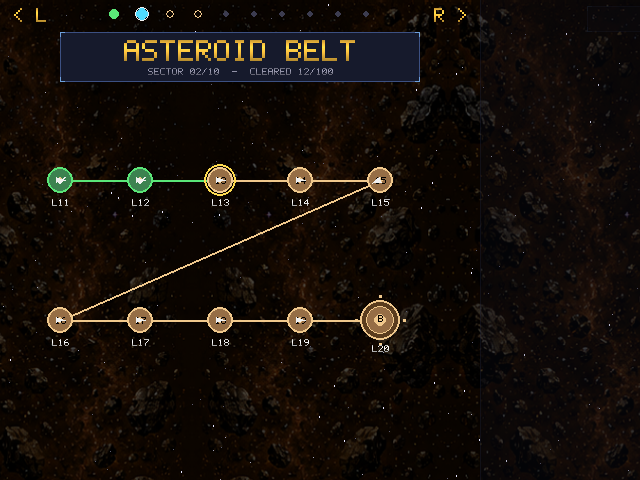
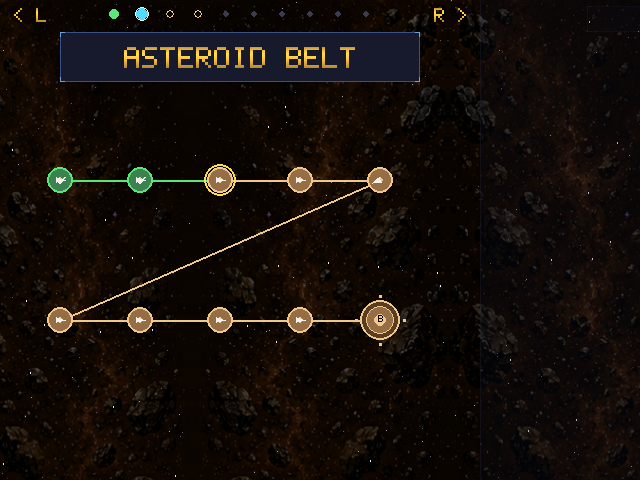
v0.9.358: map cleanup — sector.level names, no subtitle, bare discs, smarter stolen-time chart
- LEVEL panel identifier is now "sector.level" (e.g. 1.1, 1.10, 2.1)
  computed from the level key, replacing "L001 LAUNCH BAY".
- Removed the sector subtitle (SECTOR n/10 - CLEARED x/100) and centered
  the sector-name banner in its panel (y 50->57).
- Removed the level numbers on each disc (inside number + "L{n}" caption);
  regular levels are bare, boss keeps its "B", done keeps the checkmark.
- Stolen-time chart now hides until the player has improved at least once
  (>= 2 improvement marks) — no more flat same-height-bar charts.

Changed region(s): [[0.1875, 0.0625, 0.5625, 0.1562]]

diff --git a/pewpew.py b/pewpew.py
@@ -138,7 +138,7 @@ def _web_is_touch():
 # features, major for big-rewrites. Skipping the bump means the next user
 # sees the same number and can't tell if they're on the latest build.
 # ──────────────────────────────────────────────────────────────────────────
-VERSION = "0.9.357"
+VERSION = "0.9.358"
 
 # ──────────────────────────────────────────────────────────────────────────
 # HUD layout suppression
@@ -11909,7 +11909,11 @@ def _side_strip_vars(app, shop_screen=None, map_screen=None):
             fails = int(stats.get("fails", 0))
             mc = float(stats.get("max_clear", 0.0))
             has_boss = bool(getattr(level, "has_boss", False))
-            out["detail_level"] = f"{cur} {getattr(level, 'name', '') or ''}"[:18]
+            try:
+                _ln = int(str(cur)[1:])
+                out["detail_level"] = f"{(_ln - 1) // 10 + 1}.{(_ln - 1) % 10 + 1}"
+            except Exception:
+                out["detail_level"] = str(cur)
             out["detail_boss"] = "yes" if has_boss else "no"
             out["detail_boss_color"] = [255, 90, 90] if has_boss else [220, 230, 240]
             out["detail_diff"] = f"x{getattr(level, 'difficulty', 1.0):.2f}"
@@ -12943,7 +12947,7 @@ LAYOUT_ELEMENTS = {
          "visible_when": "has_next",
          "_label": "next-sector hint (visible when more sectors unlocked); R1 or R2"},
         {"id": "sector_title", "type": "text",
-         "x": 240, "y": 50, "anchor": "c",
+         "x": 240, "y": 57, "anchor": "c",
          "text": "{sector_name}", "font": 3,
          "color": [255, 196, 64], "alpha": 255,
          "_label": "current sector name banner"},
@@ -19519,7 +19523,7 @@ class MapScreen:
         # ---- Sector header banner ----
         # Panel chrome stays in code; the text inside is element-driven.
         _panel(screen, 60, 32, HUD_X - 120, 50)
-        for eid in ("sector_title", "sector_subtitle"):
+        for eid in ("sector_title",):
             el = get_element("map", eid, **map_vars)
             if el is not None:
                 _layout_draw_item(screen, el, fonts, self.app.assets, map_vars)
@@ -19633,6 +19637,13 @@ class MapScreen:
                 improvement.append(False)
             running.append(cur)
         current_best = running[-1]
+
+        # Only show the chart once the player has actually IMPROVED at least
+        # once. improvement[0] is always True (first attempt = baseline); with
+        # no later drop the series is flat same-height bars carrying no info,
+        # so require >= 2 improvement marks (baseline + a real improvement).
+        if sum(improvement) < 2:
+            return
 
         # Y-axis clip: current best ≥ 25 % of bar area height.
         observed_max = max(running)
@@ -19759,7 +19770,6 @@ def _draw_map_node(surf, x, y, palette, is_boss, done, avail, cursor, t, label_n
         pygame.draw.circle(surf, ring_col, (x, y), r, 2)
         if avail or done:
             pygame.draw.circle(surf, accent, (x, y), 3)
-        label = f"{label_n}"
         lc = BLACK if avail or done else (140, 140, 160)
 
     if cursor:
@@ -19769,13 +19779,11 @@ def _draw_map_node(surf, x, y, palette, is_boss, done, avail, cursor, t, label_n
         # checkmark badge
         pygame.draw.line(surf, WHITE, (x - 4, y), (x - 1, y + 3), 2)
         pygame.draw.line(surf, WHITE, (x - 1, y + 3), (x + 4, y - 3), 2)
-    else:
+    elif is_boss:
+        # Boss keeps its "B" marker; regular levels are bare discs (the
+        # level numbers were removed — the name lives in the LEVEL panel).
         ntxt = fonts["tiny"].render(label, False, lc)
-        surf.blit(ntxt, ntxt.get_rect(center=(x, y - (2 if is_boss else 0))))
-
-    # mini caption below
-    cap = fonts["tiny"].render(f"L{label_n}", False, DIM if not (avail or done) else WHITE)
-    surf.blit(cap, cap.get_rect(center=(x, y + (28 if is_boss else 22))))
+        surf.blit(ntxt, ntxt.get_rect(center=(x, y - 2)))
 
 
 def _draw_map_edge(surf, a, b, a_done, b_avail, t, accent, with_chevron=True):
